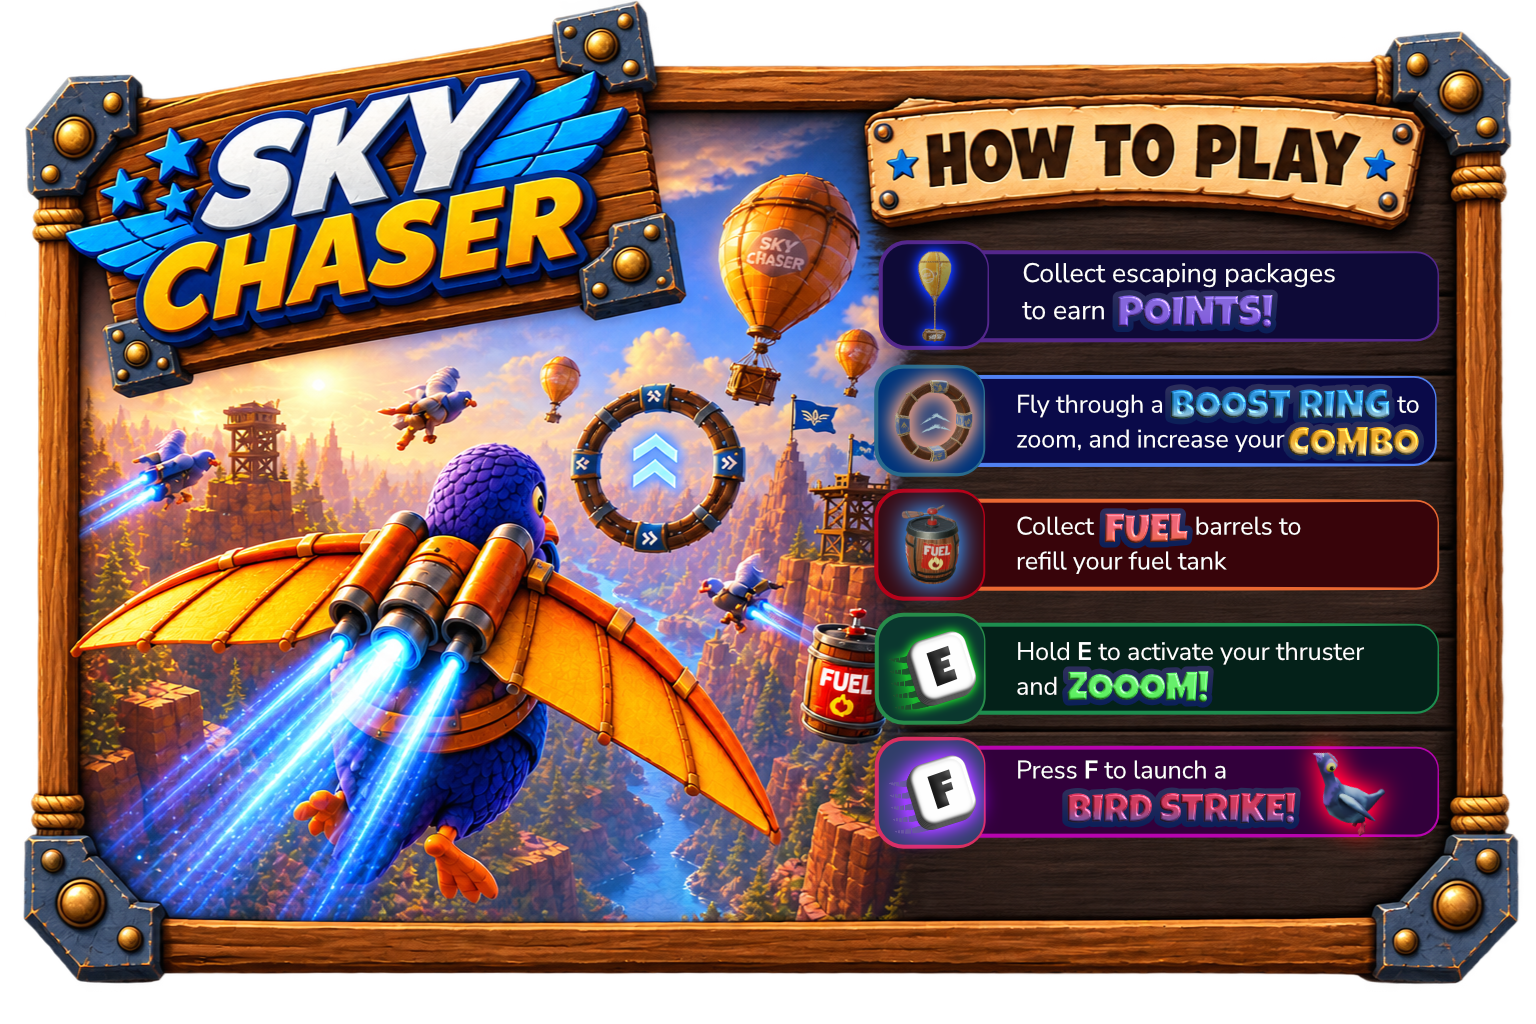
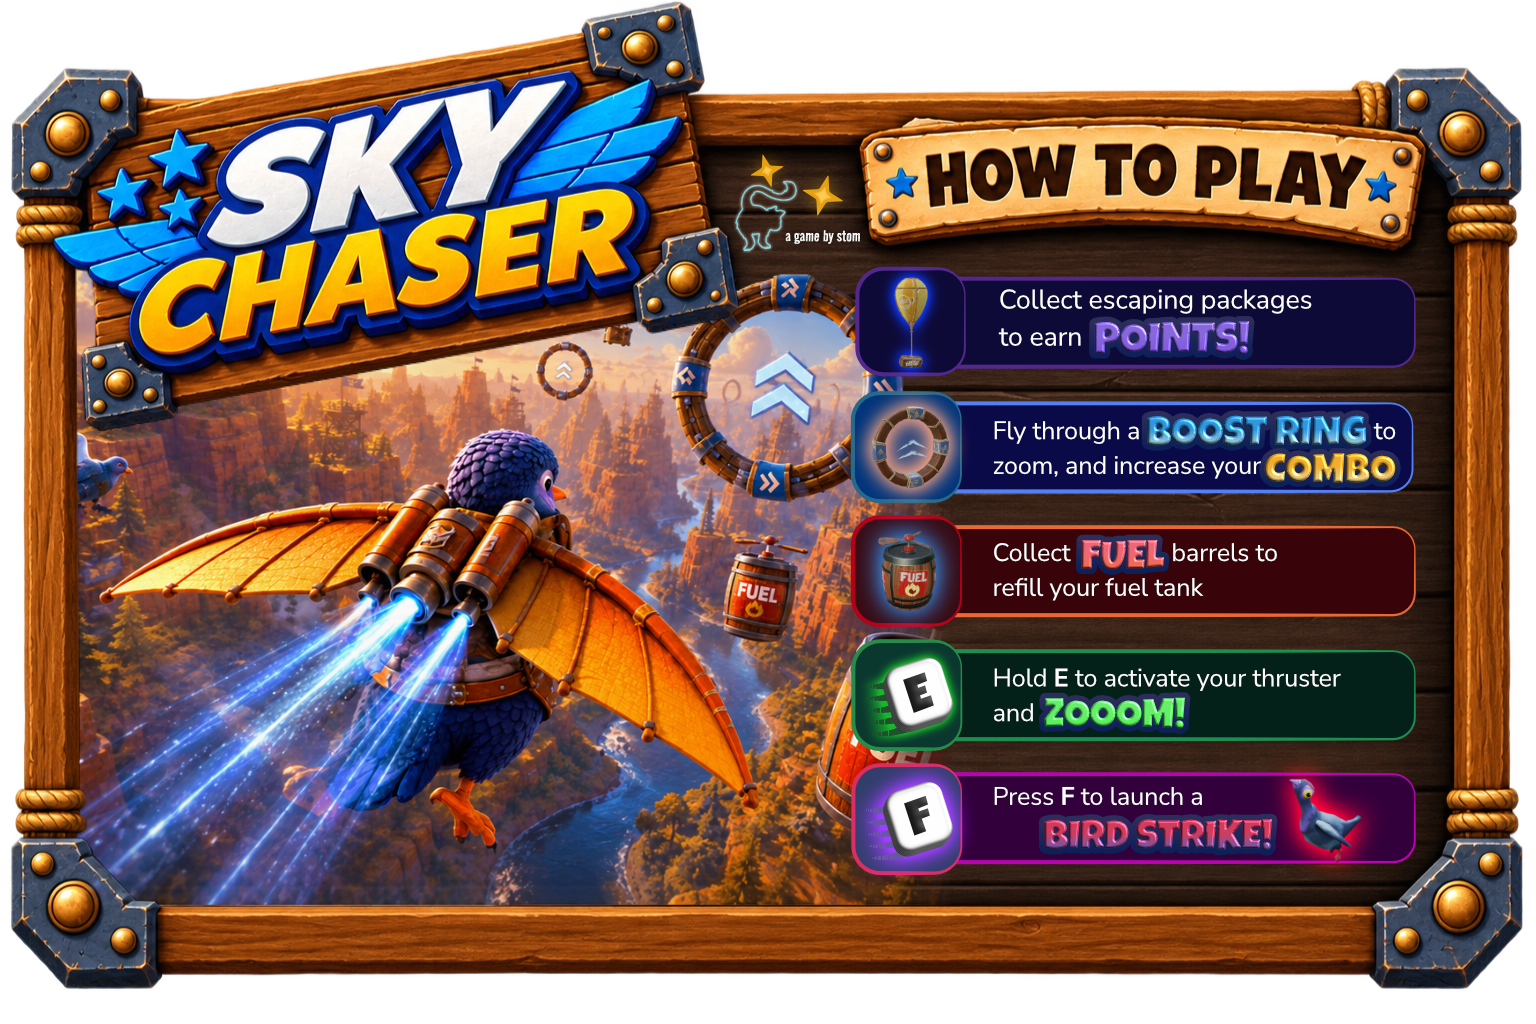
feat: update howToPlay, ensure Close buttons come after main body

diff --git a/dcl/src/client/ui/themes/skyChaser/layers/howToPlay.layer.tsx b/dcl/src/client/ui/themes/skyChaser/layers/howToPlay.layer.tsx
@@ -1,6 +1,6 @@
 import { Color4 } from '@dcl/sdk/math'
 import ReactEcs from '@dcl/sdk/react-ecs'
-import { Background, Layer, ZoneType } from '@stom66/dcl-ui-component-kit'
+import { Background, ButtonImageClose, Layer, ZoneType } from '@stom66/dcl-ui-component-kit'
 
 import { ClientEvents, eventBus } from 'src/shared/utils/eventBus'
 
@@ -23,10 +23,10 @@ export class HowToPlayLayer extends Layer {
 			zone           : ZoneType.Default,
 			canBeHidden    : true,
 			startHidden    : true,
-			showCloseButton: true,
+			showCloseButton: false,
 			uiTransform    : {
-				width         : 1200,
-				height        : 800,
+				width         : "120vh",
+				height        : "80vh",
 				justifyContent: 'center',
 				alignItems    : 'center',
 			},
@@ -88,6 +88,23 @@ export class HowToPlayLayer extends Layer {
 				backgroundColor = {Color4.White()}
 				borderRadius    = {0}
 				borderWidth     = {0}
+				// Keep world clicks blocked by the panel, but don't sit above the close control.
+				uiTransform     = {{
+					zIndex: 0,
+				}}
+			/>,
+			<ButtonImageClose
+				id              = "howToPlay-close"
+				key             = "howToPlay-close"
+				backgroundColor = {Color4.White()}
+				borderRadius    = {0}
+				borderWidth     = {0}
+				callback        = {() => this.hide()}
+				uiTransform     = {{
+					positionType: 'absolute',
+					position    : { top: 0, right: 0 },
+					zIndex      : 1001,
+				}}
 			/>,
 		]
 	}

diff --git a/dcl/src/client/ui/themes/skyChaser/layers/results.layer.tsx b/dcl/src/client/ui/themes/skyChaser/layers/results.layer.tsx
@@ -290,14 +290,6 @@ export class ResultsLayer extends Layer {
 		const localUserId = getPlayer()?.userId
 
 		return [
-			<ButtonImageClose
-				key         = "results-close"
-				id          = "btn_close_skyChaser-results"
-				callback    = {() => this.hide()}
-				uiTransform = {{
-					position: { top: 0, right: CLOSE_BUTTON_RIGHT },
-				}}
-			/>,
 			// Manual vertical 3-slice — native nine-slices just stretches this asset.
 			<UiEntity
 				key         = "results-chrome"
@@ -389,6 +381,15 @@ export class ResultsLayer extends Layer {
 					))
 				)}
 			</Column>,
+			// After chrome/body so mobile hit-testing (sibling order) can reach it.
+			<ButtonImageClose
+				key         = "results-close"
+				id          = "btn_close_skyChaser-results"
+				callback    = {() => this.hide()}
+				uiTransform = {{
+					position: { top: 0, right: CLOSE_BUTTON_RIGHT },
+				}}
+			/>,
 		]
 	}
 
